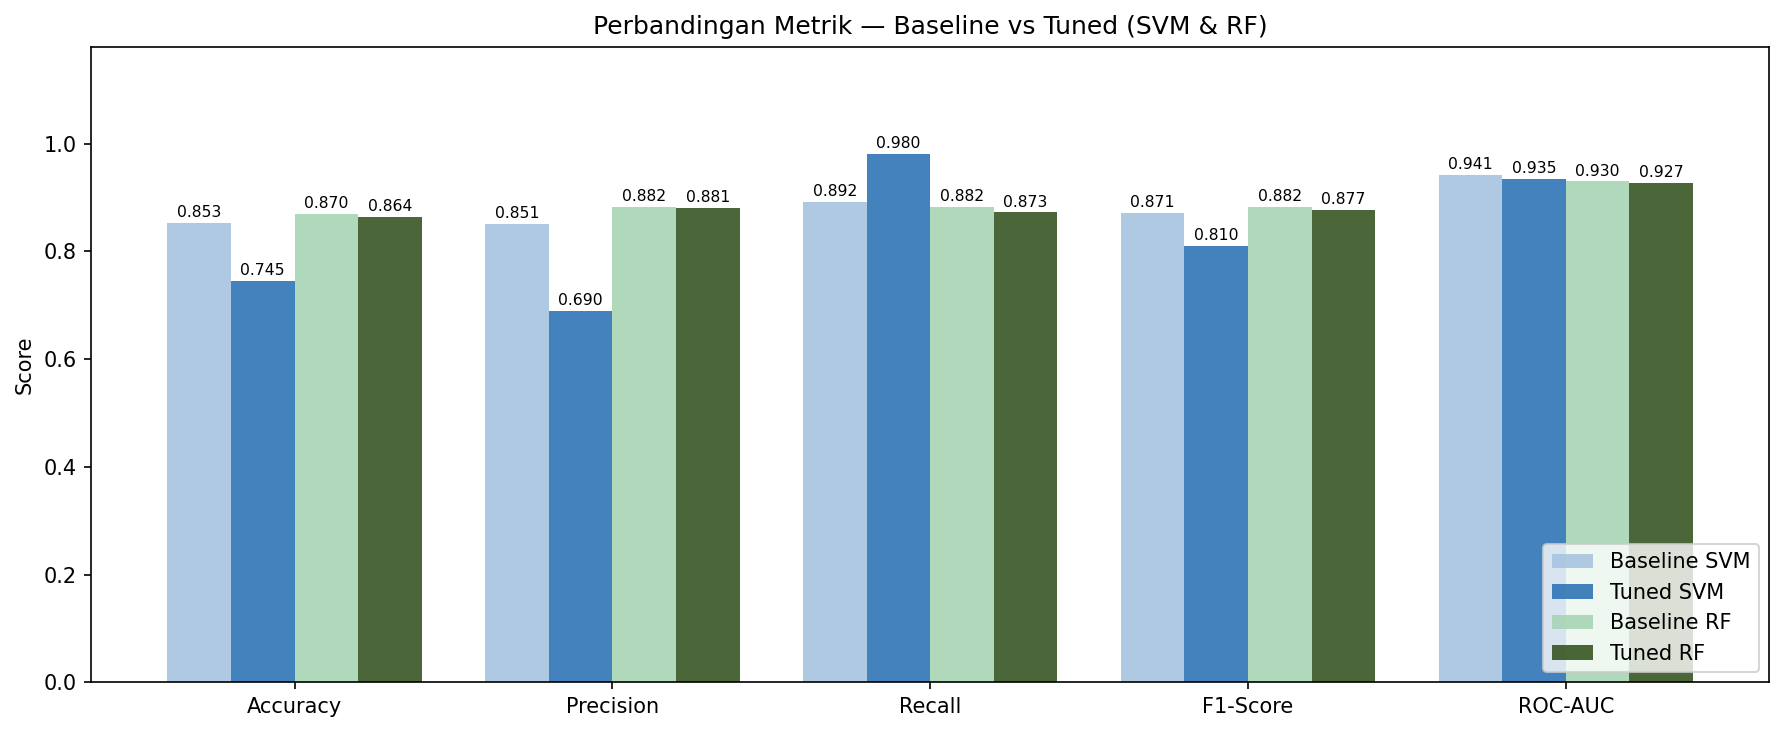
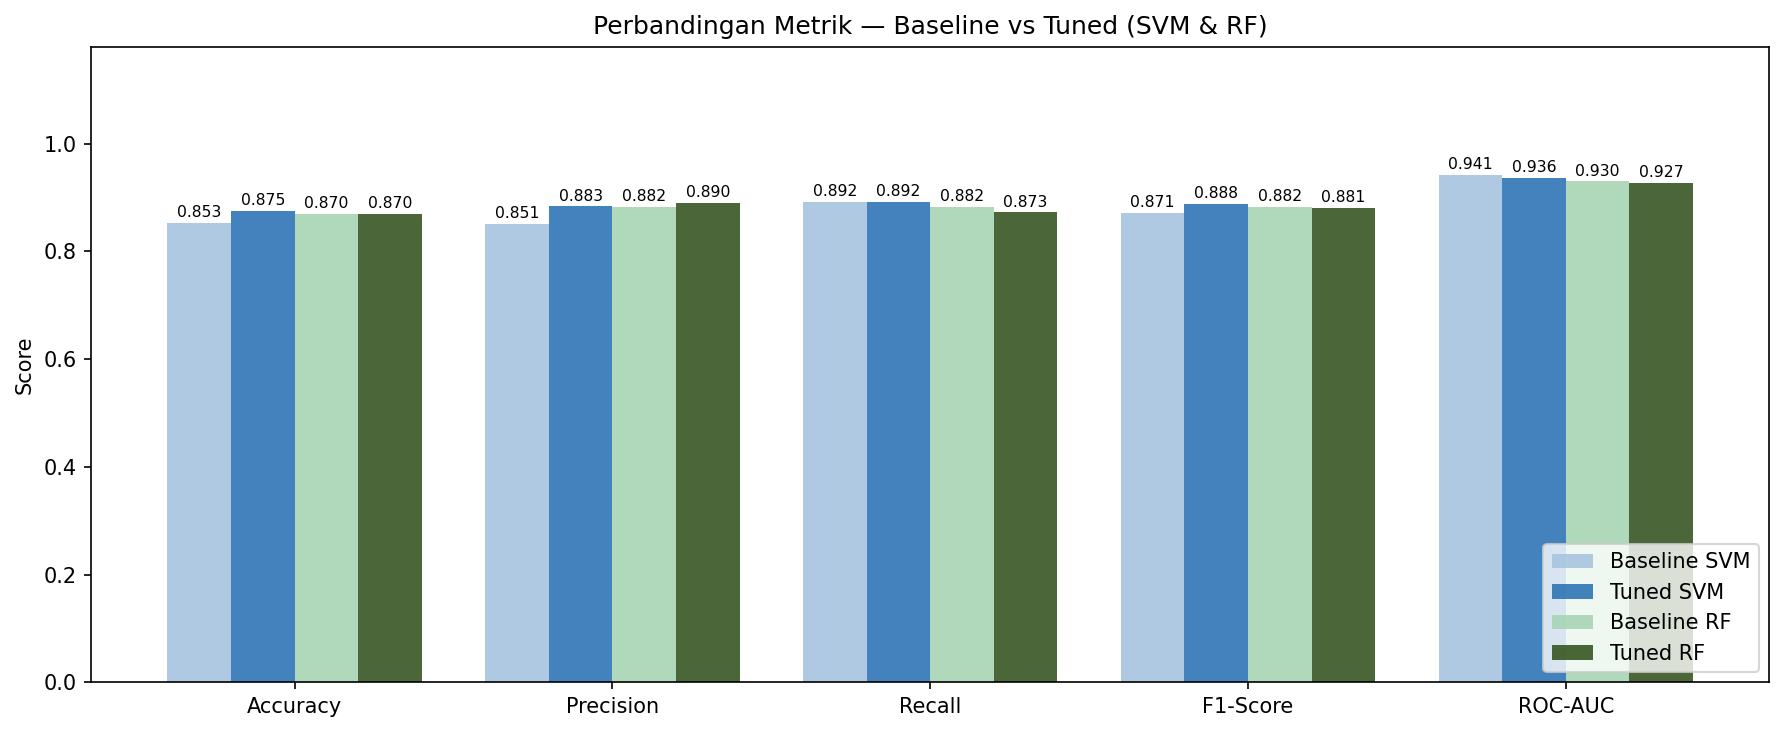
perbaikan svm dan rf

diff --git a/CardioVascular.py b/CardioVascular.py
@@ -118,12 +118,12 @@ parameter_SVM = {
 # RF: n_estimators (jumlah pohon), max_depth (kedalaman), dll
 
 parameter_RF = {
-    'n_estimators' : [100, 200, 300, 500],
-    'max_depth' : [None, 5, 10, 15, 20],
-    'min_samples_split' : [2, 5, 10],
-    'min_samples_leaf' : [1, 2, 4],
-    'max_features' : ['sqrt', 'log2'],
-    'class_weight'     : ['balanced', None]
+    'n_estimators' : [ 200, 300, 500],
+    'max_depth' : [None, 10, 15],
+    'min_samples_split' : [2, 5],
+    'min_samples_leaf' : [1, 2],
+    'max_features' : ['sqrt'],
+    'class_weight'     : [None]
 }
 
 #---------------- Randomized Search -----------------------
@@ -131,13 +131,13 @@ parameter_RF = {
 search_svm = RandomizedSearchCV(
     SVC(probability=True, random_state=42),
     parameter_SVM, n_iter=60, cv= 5,
-    scoring='recall', random_state=42, n_jobs=-1, refit=True
+    scoring='roc_auc', random_state=42, n_jobs=-1, refit=True
 )
 
 search_rf = RandomizedSearchCV(
     RandomForestClassifier(random_state=42),
-    parameter_RF, n_iter=70, cv=5,
-    scoring= 'recall', random_state=42, n_jobs= -1, refit=True
+    parameter_RF, n_iter=100, cv=5,
+    scoring= 'roc_auc', random_state=42, n_jobs= -1, refit=True
 )
 
 #------------------- Tuning ------------------------------